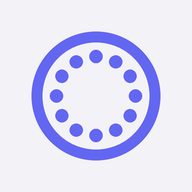
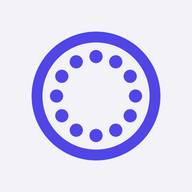
feat(웹 아이콘 A): 파비콘 16·32·ico·홈 화면 아이콘을 앱 아이콘 A(#4F46E5)로, manifest 색 #0a0a0f → #F2F2F7, OG 4곳 빨간 'O' 상자 → 아이콘 A 모양(OgLogo)
OG 바탕·강조 빨강과 /api/v1·글 화면은 그대로. 구글 동의 화면 로고(logo-oauth.png)는 안 바꿈.

Claude-Session: https://claude.ai/code/session_016c5dTfpFaDg3VZE8k7qibs

diff --git a/src/app/[username]/opengraph-image.tsx b/src/app/[username]/opengraph-image.tsx
@@ -1,4 +1,5 @@
 import { ImageResponse } from "next/og";
+import { OgLogo } from "@/lib/og-logo";
 import { getProfile } from "@/lib/auth";
 import { getFollowStats } from "@/lib/follows";
 import { listPublicSlotsByUsername } from "@/lib/slots";
@@ -88,22 +89,7 @@ export default async function Image({
         }}
       >
         <div style={{ display: "flex", alignItems: "center", gap: 14 }}>
-          <div
-            style={{
-              width: 48,
-              height: 48,
-              borderRadius: 12,
-              background: "linear-gradient(135deg, #dc2626 0%, #ef4444 100%)",
-              display: "flex",
-              alignItems: "center",
-              justifyContent: "center",
-              fontWeight: 800,
-              fontSize: 26,
-              color: "#fff",
-            }}
-          >
-            O
-          </div>
+          <OgLogo size={48} />
           <div style={{ fontSize: 24, fontWeight: 600, color: "#e5e5e5" }}>
             Orbit42
           </div>

diff --git a/src/app/api/time-card/route.tsx b/src/app/api/time-card/route.tsx
@@ -1,4 +1,5 @@
 import { ImageResponse } from "next/og";
+import { OgLogo } from "@/lib/og-logo";
 import type { NextRequest } from "next/server";
 
 export const runtime = "nodejs";
@@ -69,22 +70,7 @@ export async function GET(request: NextRequest) {
         }}
       >
         <div style={{ display: "flex", alignItems: "center", gap: 14 }}>
-          <div
-            style={{
-              width: 44,
-              height: 44,
-              borderRadius: 11,
-              background: "linear-gradient(135deg, #dc2626 0%, #ef4444 100%)",
-              display: "flex",
-              alignItems: "center",
-              justifyContent: "center",
-              fontWeight: 800,
-              fontSize: 24,
-              color: "#fff",
-            }}
-          >
-            O
-          </div>
+          <OgLogo size={44} />
           <div style={{ fontSize: 22, fontWeight: 600, color: "#e5e5e5" }}>
             Orbit42
           </div>

diff --git a/src/app/blog-public/[username]/[slug]/opengraph-image.tsx b/src/app/blog-public/[username]/[slug]/opengraph-image.tsx
@@ -1,4 +1,5 @@
 import { ImageResponse } from "next/og";
+import { OgLogo } from "@/lib/og-logo";
 import { getPublishedPost } from "../../actions";
 
 export const runtime = "nodejs";
@@ -64,22 +65,7 @@ export default async function Image({
           />
         )}
         <div style={{ display: "flex", alignItems: "center", gap: 14 }}>
-          <div
-            style={{
-              width: 48,
-              height: 48,
-              borderRadius: 12,
-              background: "linear-gradient(135deg, #dc2626 0%, #ef4444 100%)",
-              display: "flex",
-              alignItems: "center",
-              justifyContent: "center",
-              fontWeight: 800,
-              fontSize: 26,
-              color: "#fff",
-            }}
-          >
-            O
-          </div>
+          <OgLogo size={48} />
           <div style={{ fontSize: 24, fontWeight: 600, color: "#e5e5e5" }}>
             Orbit42
           </div>

diff --git a/src/app/[username]/s/[slug]/opengraph-image.tsx b/src/app/[username]/s/[slug]/opengraph-image.tsx
@@ -1,4 +1,5 @@
 import { ImageResponse } from "next/og";
+import { OgLogo } from "@/lib/og-logo";
 import { getSlotBySlug } from "@/lib/slots";
 
 export const runtime = "nodejs";
@@ -67,22 +68,7 @@ export default async function Image({
           />
         )}
         <div style={{ display: "flex", alignItems: "center", gap: 14 }}>
-          <div
-            style={{
-              width: 48,
-              height: 48,
-              borderRadius: 12,
-              background: "linear-gradient(135deg, #dc2626 0%, #ef4444 100%)",
-              display: "flex",
-              alignItems: "center",
-              justifyContent: "center",
-              fontWeight: 800,
-              fontSize: 26,
-              color: "#fff",
-            }}
-          >
-            O
-          </div>
+          <OgLogo size={48} />
           <div style={{ fontSize: 24, fontWeight: 600, color: "#e5e5e5" }}>
             Orbit42
           </div>

diff --git a/src/lib/og-logo.tsx b/src/lib/og-logo.tsx
@@ -1,0 +1,20 @@
+/**
+ * OG 그림 왼쪽 위 로고 — 앱 아이콘 A(11/22 Leo 확정)와 같은 모양.
+ * 1024 원본 기준: 궤도 고리 중심 반지름 315·굵기 56, 안쪽 점 12개(반지름 35, 중심에서 210.5, 30°마다).
+ * 바탕 #F2F2F7 · 색 #4F46E5(라이트 아이콘). 옛 빨간 'O' 상자를 대신한다.
+ */
+export function OgLogo({ size = 48 }: { size?: number }) {
+  const dots = Array.from({ length: 12 }, (_, i) => {
+    const a = (i * Math.PI) / 6;
+    return { cx: 512 + 210.5 * Math.cos(a), cy: 512 + 210.5 * Math.sin(a) };
+  });
+  return (
+    <svg width={size} height={size} viewBox="0 0 1024 1024">
+      <rect x="0" y="0" width="1024" height="1024" rx="230" fill="#F2F2F7" />
+      <circle cx="512" cy="512" r="315" fill="none" stroke="#4F46E5" strokeWidth="56" />
+      {dots.map((d, i) => (
+        <circle key={i} cx={d.cx} cy={d.cy} r="35" fill="#4F46E5" />
+      ))}
+    </svg>
+  );
+}

diff --git a/src/app/manifest.ts b/src/app/manifest.ts
@@ -8,8 +8,8 @@ export default function manifest(): MetadataRoute.Manifest {
     description: SITE.description,
     start_url: "/calendar",
     display: "standalone",
-    background_color: "#0a0a0f",
-    theme_color: "#0a0a0f",
+    background_color: "#F2F2F7",
+    theme_color: "#F2F2F7",
     icons: [
       {
         src: "/icon-192.png",
